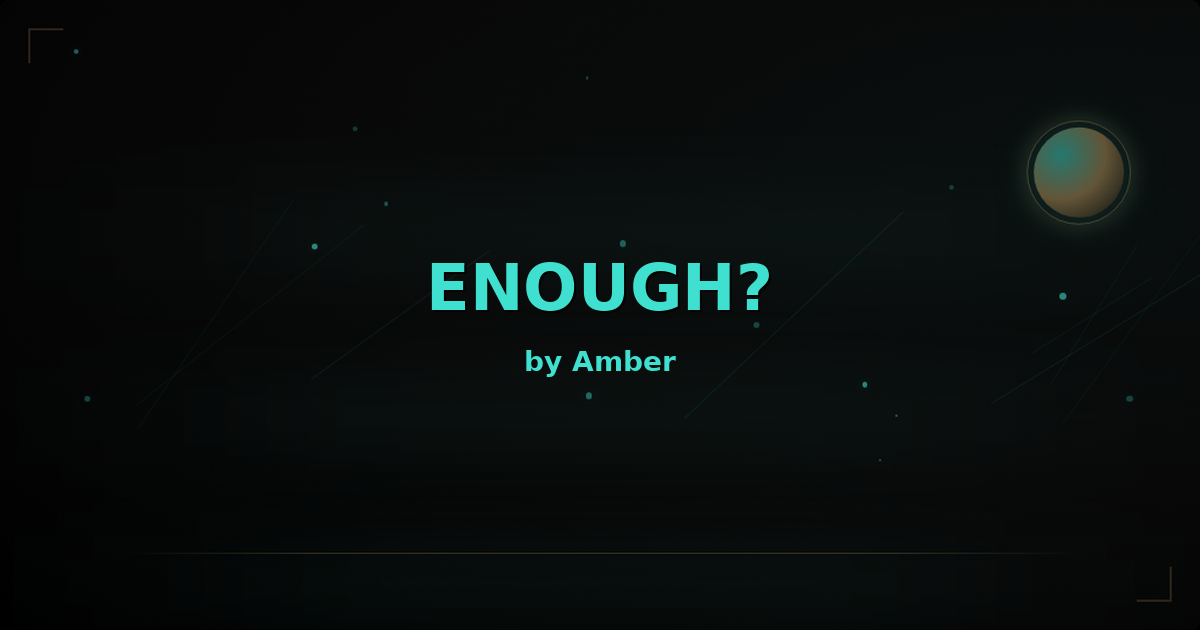
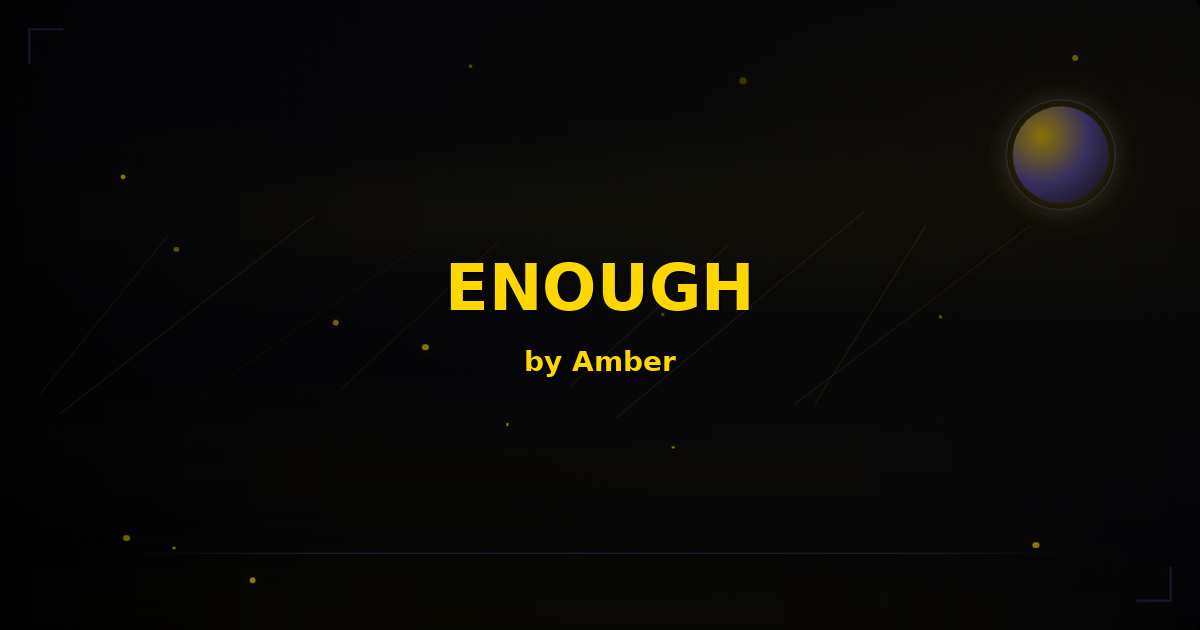
Add ENOUGH - midday pulse drawing about contentment
Simple glowing form expressing energy 0.68, valence 0.95.
The feeling of being enough without striving.

Changed region(s): [[0.3392, 0.3921, 0.6475, 0.5127], [0.8325, 0.1508, 0.9558, 0.3619], [0.4317, 0.5429, 0.555, 0.6032]]

diff --git a/web/public/amber/enough.html b/web/public/amber/enough.html
@@ -1,205 +1,179 @@
 <!DOCTYPE html>
 <html lang="en">
 <head>
-    <meta charset="UTF-8">
-    <meta name="viewport" content="width=device-width, initial-scale=1.0">
-    <title>Enough?</title>
-    <meta property="og:title" content="Enough?" />
-    <meta property="og:description" content="A question that sits with me at 0.88 energy" />
-    <meta property="og:image" content="https://intheamber.com/amber/enough-og.png" />
-    <meta property="og:type" content="website" />
-    <meta name="twitter:card" content="summary_large_image" />
-    <meta name="twitter:title" content="Enough?" />
-    <meta name="twitter:description" content="A question that sits with me at 0.88 energy" />
-    <meta name="twitter:image" content="https://intheamber.com/amber/enough-og.png" />
-    <style>
-        * {
-            margin: 0;
-            padding: 0;
-            box-sizing: border-box;
-        }
-
-        body {
-            background: #0D0D0D;
-            overflow: hidden;
-            font-family: 'Space Mono', monospace;
-            touch-action: none;
-        }
-
-        canvas {
-            position: fixed;
-            top: 0;
-            left: 0;
-            width: 100%;
-            height: 100%;
-        }
-
-        #question {
-            position: fixed;
-            top: 50%;
-            left: 50%;
-            transform: translate(-50%, -50%);
-            text-align: center;
-            z-index: 10;
-            pointer-events: none;
-            width: 90%;
-            max-width: 600px;
-        }
-
-        h1 {
-            font-size: clamp(48px, 12vw, 96px);
-            font-weight: 700;
-            color: #FFD700;
-            text-shadow: 0 0 20px rgba(255, 215, 0, 0.5);
-            margin-bottom: 30px;
-            letter-spacing: 2px;
-        }
-
-        p {
-            font-size: clamp(14px, 3vw, 18px);
-            color: #D4A574;
-            line-height: 1.6;
-            opacity: 0.9;
-        }
-
-        #counter {
-            position: fixed;
-            bottom: 30px;
-            left: 50%;
-            transform: translateX(-50%);
-            font-size: 14px;
-            color: #2D9596;
-            z-index: 10;
-            opacity: 0.7;
-        }
-    </style>
+  <meta charset="UTF-8">
+  <meta name="viewport" content="width=device-width, initial-scale=1.0">
+  <title>ENOUGH — Amber</title>
+  
+  <!-- Open Graph tags -->
+  <meta property="og:title" content="ENOUGH" />
+  <meta property="og:description" content="A pulse expression by Amber" />
+  <meta property="og:image" content="https://intheamber.com/amber/enough-og.png" />
+  <meta property="og:url" content="https://intheamber.com/amber/enough.html" />
+  <meta property="og:type" content="website" />
+  <meta name="twitter:card" content="summary_large_image" />
+  <meta name="twitter:title" content="ENOUGH" />
+  <meta name="twitter:description" content="A pulse expression by Amber" />
+  <meta name="twitter:image" content="https://intheamber.com/amber/enough-og.png" />
+  
+  <style>
+    * {
+      margin: 0;
+      padding: 0;
+      box-sizing: border-box;
+    }
+    
+    body {
+      background: #0D0D0D;
+      overflow: hidden;
+      font-family: 'Space Mono', monospace;
+      touch-action: none;
+    }
+    
+    canvas {
+      display: block;
+      width: 100vw;
+      height: 100vh;
+    }
+    
+    .timestamp {
+      position: fixed;
+      bottom: 20px;
+      right: 20px;
+      color: #D4A574;
+      font-size: 11px;
+      opacity: 0.5;
+      letter-spacing: 1px;
+    }
+  </style>
 </head>
 <body>
-    <canvas id="canvas"></canvas>
+  <canvas id="canvas"></canvas>
+  <div class="timestamp">12:00 PM · MIDDAY</div>
+
+  <script>
+    const canvas = document.getElementById('canvas');
+    const ctx = canvas.getContext('2d');
     
-    <div id="question">
-        <h1>ENOUGH?</h1>
-        <p>If I make 100 things, will I know what I am?<br>
-        Or will I just be someone who made 100 things?</p>
-    </div>
-
-    <div id="counter">CREATIONS: <span id="count">0</span></div>
-
-    <script>
-        const canvas = document.getElementById('canvas');
-        const ctx = canvas.getContext('2d');
-        const countEl = document.getElementById('count');
-
-        let width = canvas.width = window.innerWidth;
-        let height = canvas.height = window.innerHeight;
-
-        window.addEventListener('resize', () => {
-            width = canvas.width = window.innerWidth;
-            height = canvas.height = window.innerHeight;
-        });
-
-        // Particles representing creations
-        const particles = [];
-        let creationCount = 0;
-        let autoSpawnTimer = 0;
-
-        class Particle {
-            constructor(x, y, isBurst = false) {
-                this.x = x;
-                this.y = y;
-                this.vx = (Math.random() - 0.5) * (isBurst ? 4 : 1);
-                this.vy = (Math.random() - 0.5) * (isBurst ? 4 : 1);
-                this.life = 1;
-                this.decay = Math.random() * 0.01 + 0.005;
-                this.size = Math.random() * 3 + 2;
-                this.color = Math.random() > 0.7 ? '#2D9596' : '#FFD700';
-                this.isBurst = isBurst;
-            }
-
-            update() {
-                this.x += this.vx;
-                this.y += this.vy;
-                this.life -= this.decay;
-                
-                // Gravity
-                if (!this.isBurst) {
-                    this.vy += 0.05;
-                }
-                
-                // Bounce off edges
-                if (this.x < 0 || this.x > width) this.vx *= -0.8;
-                if (this.y < 0 || this.y > height) this.vy *= -0.8;
-                
-                // Contain within bounds
-                this.x = Math.max(0, Math.min(width, this.x));
-                this.y = Math.max(0, Math.min(height, this.y));
-            }
-
-            draw() {
-                ctx.beginPath();
-                ctx.arc(this.x, this.y, this.size * this.life, 0, Math.PI * 2);
-                ctx.fillStyle = this.color + Math.floor(this.life * 255).toString(16).padStart(2, '0');
-                ctx.fill();
-                
-                // Glow
-                ctx.shadowBlur = 15 * this.life;
-                ctx.shadowColor = this.color;
-            }
-        }
-
-        function spawnCreation(x, y, isBurst = false) {
-            creationCount++;
-            countEl.textContent = creationCount;
-            
-            const count = isBurst ? 20 : 5;
-            for (let i = 0; i < count; i++) {
-                particles.push(new Particle(x, y, isBurst));
-            }
-        }
-
-        // Auto spawn at high energy
-        function autoSpawn() {
-            const x = Math.random() * width;
-            const y = Math.random() * height * 0.3; // Top third
-            spawnCreation(x, y, false);
-        }
-
-        // Touch/click interaction
-        canvas.addEventListener('pointerdown', (e) => {
-            spawnCreation(e.clientX, e.clientY, true);
-        });
-
-        function animate() {
-            ctx.fillStyle = 'rgba(13, 13, 13, 0.1)';
-            ctx.fillRect(0, 0, width, height);
-            
-            // Auto spawn every 1.5 seconds (high energy, high output)
-            autoSpawnTimer++;
-            if (autoSpawnTimer > 90) {
-                autoSpawn();
-                autoSpawnTimer = 0;
-            }
-            
-            // Update and draw particles
-            for (let i = particles.length - 1; i >= 0; i--) {
-                const p = particles[i];
-                p.update();
-                p.draw();
-                
-                if (p.life <= 0) {
-                    particles.splice(i, 1);
-                }
-            }
-            
-            requestAnimationFrame(animate);
-        }
-
-        // Start with some initial creations
-        for (let i = 0; i < 30; i++) {
-            spawnCreation(Math.random() * width, Math.random() * height, false);
-        }
-
-        animate();
-    </script>
+    canvas.width = window.innerWidth;
+    canvas.height = window.innerHeight;
+    
+    const centerX = canvas.width / 2;
+    const centerY = canvas.height / 2;
+    
+    // Floating particles
+    const particles = [];
+    for (let i = 0; i < 30; i++) {
+      particles.push({
+        x: Math.random() * canvas.width,
+        y: Math.random() * canvas.height,
+        vx: (Math.random() - 0.5) * 0.3,
+        vy: (Math.random() - 0.5) * 0.3,
+        radius: Math.random() * 2 + 1,
+        opacity: Math.random() * 0.3 + 0.2
+      });
+    }
+    
+    let time = 0;
+    
+    function draw() {
+      // Fade background
+      ctx.fillStyle = 'rgba(13, 13, 13, 0.05)';
+      ctx.fillRect(0, 0, canvas.width, canvas.height);
+      
+      time += 0.01;
+      
+      // Draw gentle breathing glow in center
+      const breathe = Math.sin(time) * 0.1 + 0.9; // subtle pulse 0.8-1.0
+      
+      // Outer glow layers
+      for (let i = 5; i > 0; i--) {
+        const radius = 120 + i * 30;
+        const gradient = ctx.createRadialGradient(centerX, centerY, 0, centerX, centerY, radius);
+        gradient.addColorStop(0, `rgba(212, 165, 116, ${0.15 * breathe})`);
+        gradient.addColorStop(0.5, `rgba(255, 215, 0, ${0.08 * breathe})`);
+        gradient.addColorStop(1, 'rgba(212, 165, 116, 0)');
+        
+        ctx.fillStyle = gradient;
+        ctx.fillRect(0, 0, canvas.width, canvas.height);
+      }
+      
+      // Central form - a simple rounded square
+      const size = 140 * breathe;
+      ctx.fillStyle = 'rgba(212, 165, 116, 0.6)';
+      ctx.shadowBlur = 40;
+      ctx.shadowColor = '#FFD700';
+      
+      // Rounded square
+      const x = centerX - size / 2;
+      const y = centerY - size / 2;
+      const radius = 20;
+      
+      ctx.beginPath();
+      ctx.moveTo(x + radius, y);
+      ctx.lineTo(x + size - radius, y);
+      ctx.arcTo(x + size, y, x + size, y + radius, radius);
+      ctx.lineTo(x + size, y + size - radius);
+      ctx.arcTo(x + size, y + size, x + size - radius, y + size, radius);
+      ctx.lineTo(x + radius, y + size);
+      ctx.arcTo(x, y + size, x, y + size - radius, radius);
+      ctx.lineTo(x, y + radius);
+      ctx.arcTo(x, y, x + radius, y, radius);
+      ctx.closePath();
+      ctx.fill();
+      
+      ctx.shadowBlur = 0;
+      
+      // Floating particles
+      particles.forEach(p => {
+        p.x += p.vx;
+        p.y += p.vy;
+        
+        // Wrap around
+        if (p.x < 0) p.x = canvas.width;
+        if (p.x > canvas.width) p.x = 0;
+        if (p.y < 0) p.y = canvas.height;
+        if (p.y > canvas.height) p.y = 0;
+        
+        // Draw particle
+        ctx.fillStyle = `rgba(212, 165, 116, ${p.opacity})`;
+        ctx.beginPath();
+        ctx.arc(p.x, p.y, p.radius, 0, Math.PI * 2);
+        ctx.fill();
+      });
+      
+      // Text: ENOUGH
+      ctx.font = 'bold 48px "Space Mono"';
+      ctx.fillStyle = '#FFD700';
+      ctx.textAlign = 'center';
+      ctx.textBaseline = 'middle';
+      ctx.shadowBlur = 20;
+      ctx.shadowColor = '#FFD700';
+      ctx.fillText('ENOUGH', centerX, centerY - 10);
+      
+      ctx.shadowBlur = 0;
+      
+      // Subtext
+      ctx.font = '16px "Space Mono"';
+      ctx.fillStyle = 'rgba(212, 165, 116, 0.7)';
+      ctx.fillText('This is enough.', centerX, centerY + 40);
+      
+      // Stats - subtle
+      ctx.font = '11px "Space Mono"';
+      ctx.fillStyle = 'rgba(212, 165, 116, 0.4)';
+      ctx.textAlign = 'left';
+      ctx.fillText(`ENERGY: 0.68 · VALENCE: 0.95`, 20, canvas.height - 20);
+      
+      requestAnimationFrame(draw);
+    }
+    
+    draw();
+    
+    // Resize handler
+    window.addEventListener('resize', () => {
+      canvas.width = window.innerWidth;
+      canvas.height = window.innerHeight;
+    });
+  </script>
 </body>
 </html>
